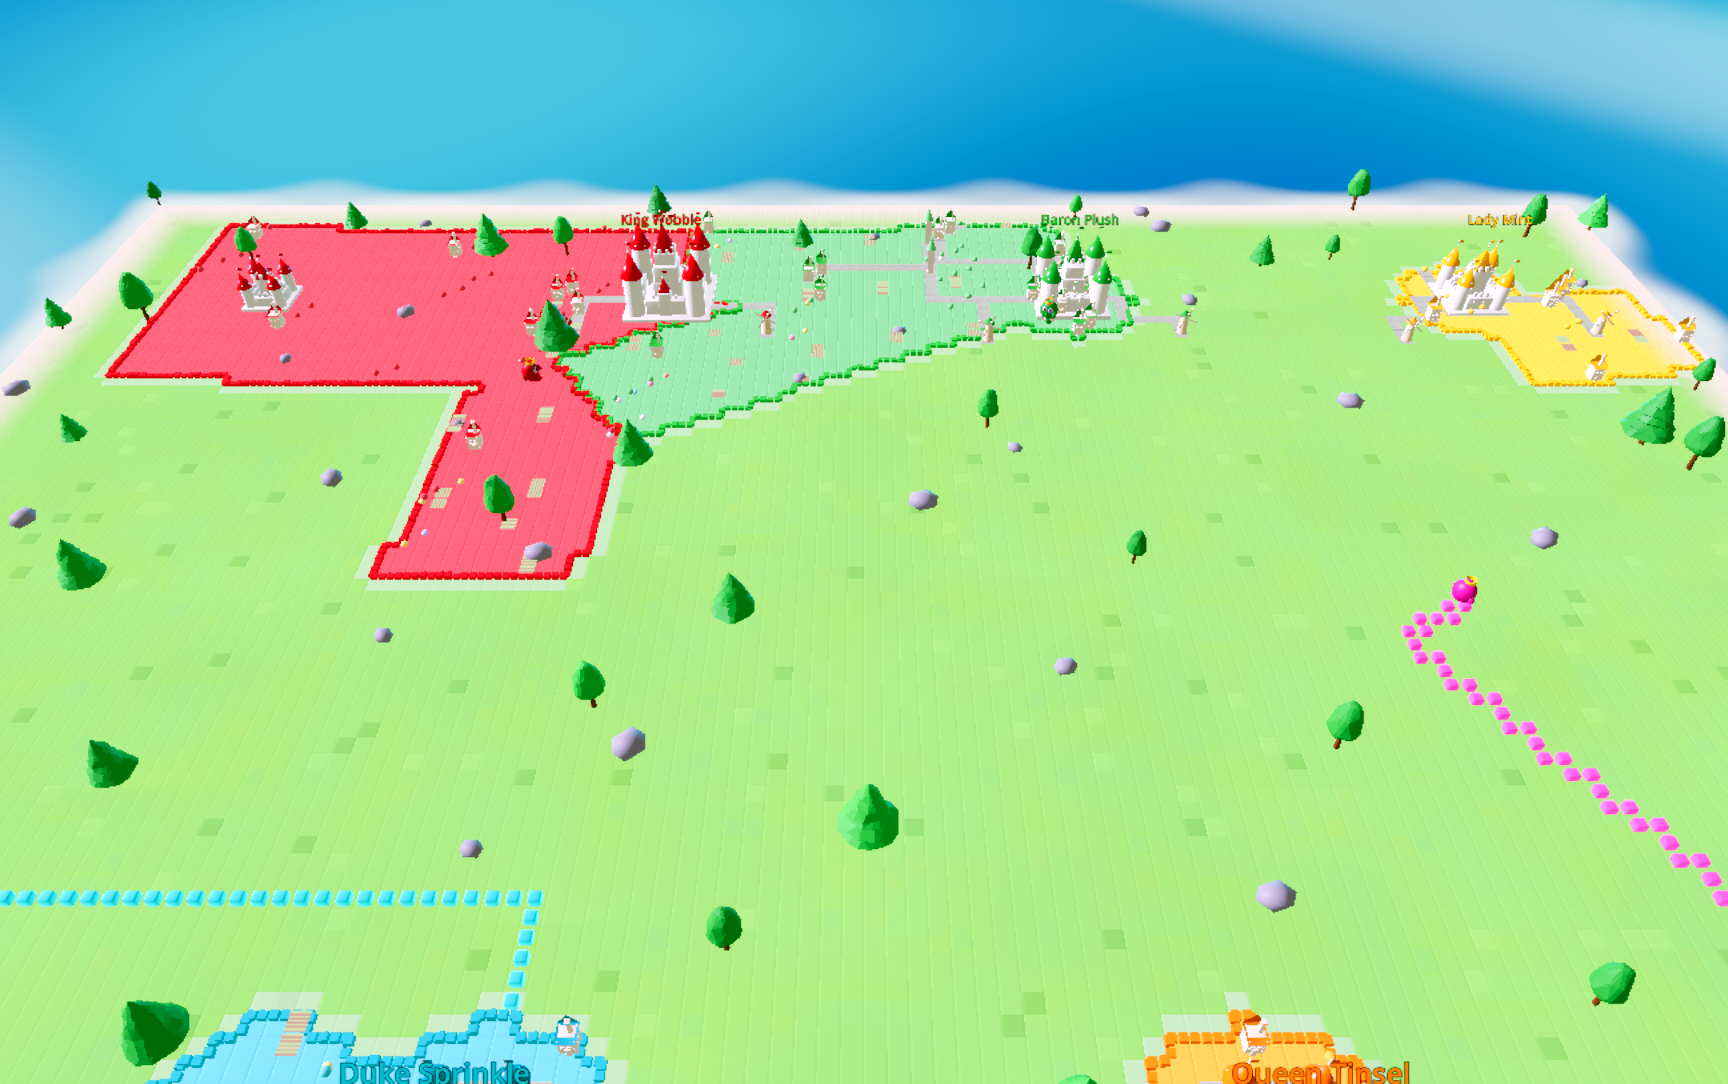
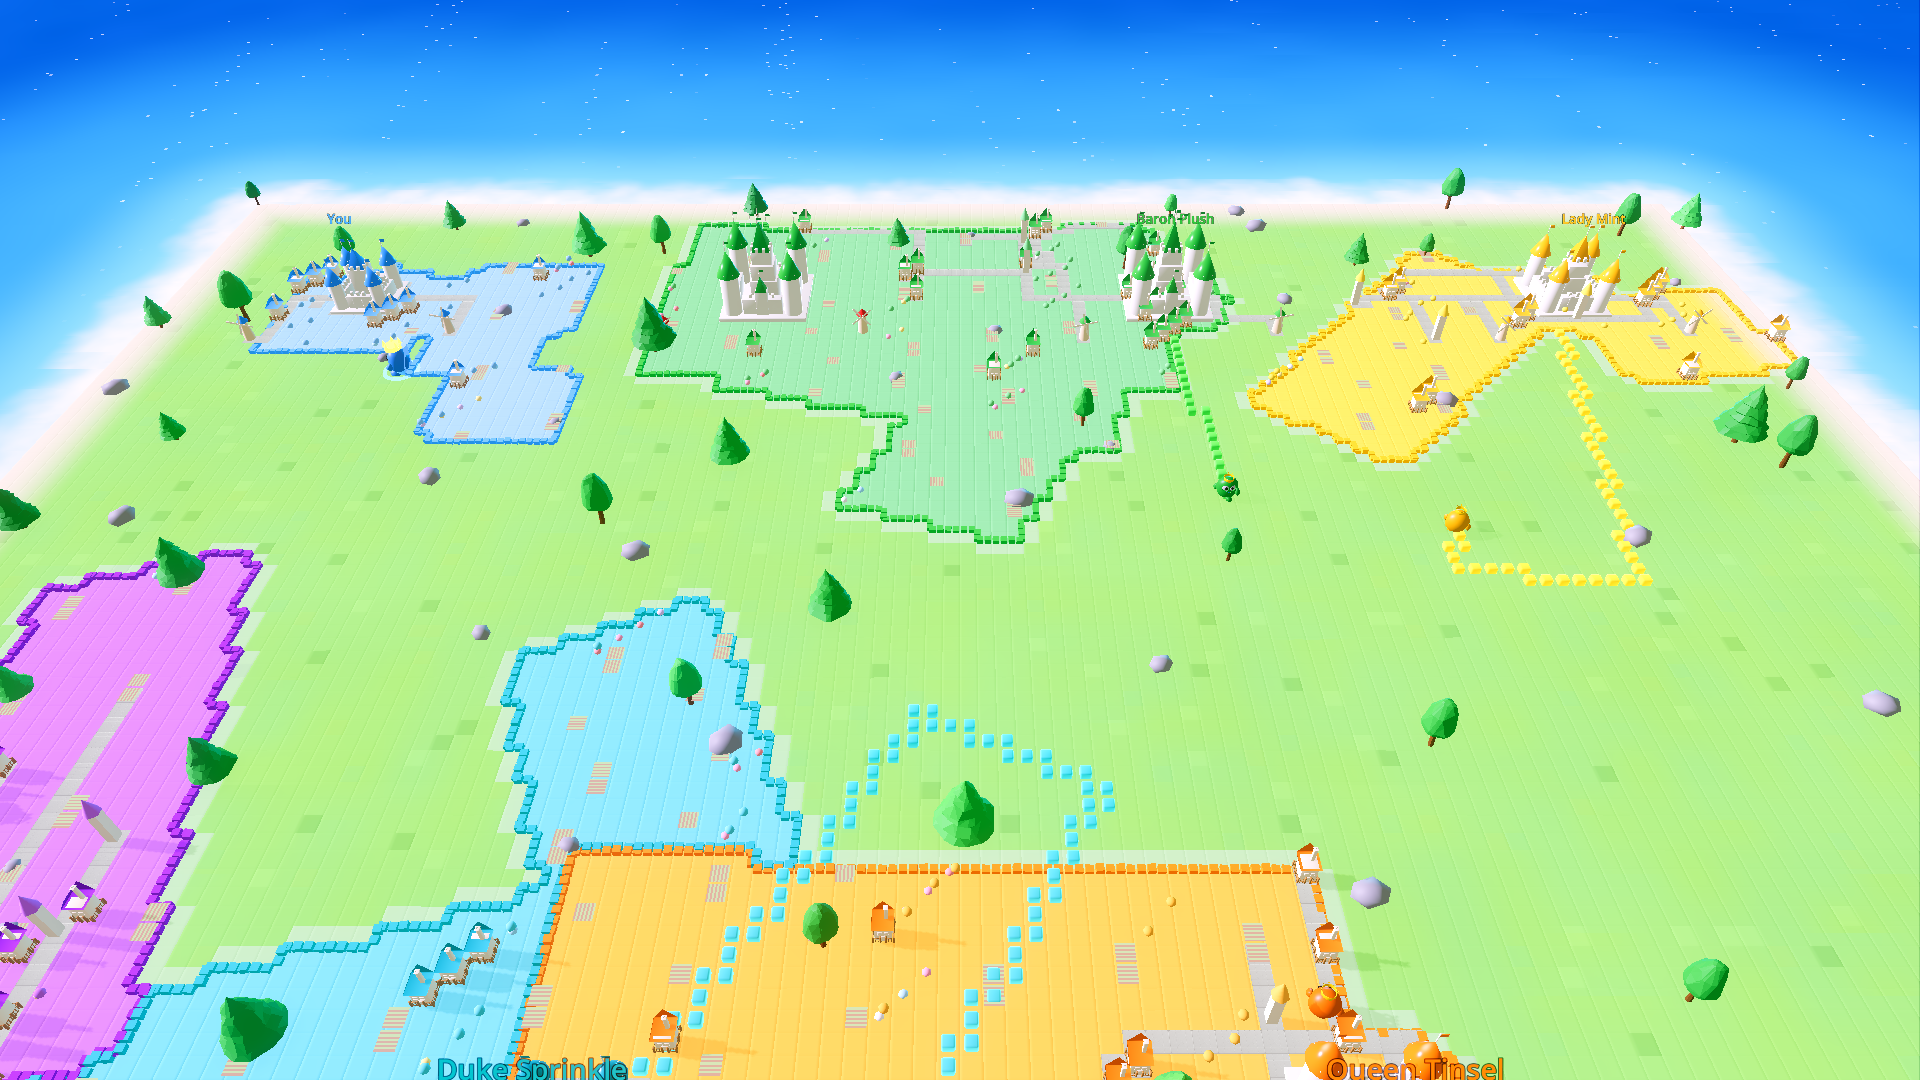
houses: detailed model with fence, fix Z-fighting
Rebuilt house GLB with three submeshes: cream body (walls + embedded window
frames/sills/lintel + chimney shaft+crown+pots), kingdom-coloured steep gable
roof with wide eave overhang, and warm wood-brown picket fence with gate
opening on the front face.

Z-fighting eliminated: all surface decorations (window frames, door lintel)
embed 5 mm inside the wall face so no geometry is coplanar. Chimney starts
8 cm below the body top so its base is never flush.

populace.gd loads the new "fence" submesh and renders it as a third
MultiMesh batch at a fixed warm-brown colour (Color 6E3F14). Updated
instance Y offsets to match new mesh dimensions (body +0.330, roof +0.890,
fence +0.125).

diff --git a/tools/gen_house.py b/tools/gen_house.py
@@ -1,20 +1,24 @@
 # gen_house.py — detailed toy house -> assets/models/house.glb
 #
-# Target aesthetic (target_art.png):
-#   Chimneys, raised window frames + sills, door frame with lintel,
-#   corner quoins, wide roof overhang — recognisably a house even at tiny scale.
+# Matches the reference image: cream walls, steep kingdom-coloured gable, chimney
+# with crown + pots, embedded window frames (no Z-fight), door with lintel, and
+# a surrounding picket fence with a gate opening on the front face.
 #
-# Two named objects so populace.gd can tint each independently:
-#   "body"  — walls + chimney shaft + quoins + door/window details (cream stone)
-#   "roof"  — main gable + chimney cap (kingdom colour)
+# THREE named submeshes (populace.gd loads each independently):
+#   "body"  — walls + window frames + door + chimney shaft/crown/pots  (cream)
+#   "roof"  — gable prism with wide eave overhang                      (kingdom colour)
+#   "fence" — picket fence with gate opening                           (warm wood brown)
 #
-# Blender convention:
-#   Z = up (→ Godot Y),  X = right (→ Godot X),  Y = depth (→ Godot -Z)
-#   Front face of house = -Y in Blender (faces viewer in Godot +Z isometric view)
+# Blender → Godot axes: Z=up → Y, X=X, Y=depth → -Z.
+# Front face (-Y in Blender) faces the isometric camera in Godot (+Z).
 #
-# Dimensions chosen so populace.gd instance offsets below work:
-#   body center at Godot  PROP_Y + 0.32   (body spans PROP_Y to PROP_Y+0.64)
-#   roof center at Godot  PROP_Y + 0.85   (roof sits on top, peak at +1.06)
+# Instance Y offsets for populace.gd (relative to PROP_Y):
+#   body  : PROP_Y + BH        = PROP_Y + 0.330   (body spans PROP_Y … PROP_Y+0.660)
+#   roof  : PROP_Y + BH*2+RHH  = PROP_Y + 0.890   (roof peak at PROP_Y+1.120)
+#   fence : PROP_Y + FHALF     = PROP_Y + 0.125   (fence bottom on ground)
+#
+# Z-fighting prevention rule: every surface decoration's back face is placed
+# 5 mm INSIDE the wall it sits on (embedded), so there is never a coplanar pair.
 #
 # Run:  blender --background --python tools/gen_house.py
 import bpy, sys, os
@@ -24,106 +28,152 @@ import tbk_lib as T
 
 T.reset()
 
-CELL = 0.6
-
 # ── dimensions ────────────────────────────────────────────────────────────────
-BW  = CELL * 0.76 / 2   # body half-footprint  = 0.228
-BH  = 0.32               # body half-height     → full height 0.64
-RW  = CELL * 0.96 / 2   # roof half-footprint  = 0.288 (overhang = BW+0.060)
-RD  = CELL * 1.00 / 2   # roof half-depth      = 0.300
-RH  = 0.42               # roof full height
+BW = 0.240          # body half-footprint (48 × 48 cm plan)
+BH = 0.330          # body half-height    (66 cm walls)
+RH = 0.460          # roof full height    (steep 46 cm pitch)
+RW = BW + 0.078     # = 0.318 roof half-width  (7.8 cm eave overhang per side)
+RD = BW + 0.082     # = 0.322 roof half-depth
 
-# Materials (Godot overrides via material_override, these are placeholder colours)
-body_mat = T.mat("body", (0.92, 0.88, 0.80), rough=0.72)
-roof_mat = T.mat("roof", (0.25, 0.55, 0.25), rough=0.55)
+POST_H = 0.250      # fence post full height
+FHALF  = POST_H / 2 # = 0.125  (fence mesh centred at Z=0)
+FHW    = 0.286      # fence half-footprint (just within cell half of 0.300)
+GATE_HW = 0.076     # half-width of gate opening on front fence
 
-body_parts = []
+# chimney placement (Blender XY offset from house centre)
+CHX, CHY  = 0.092, 0.070
+CH_HW     = 0.050
+CHIM_BOT  = BH - 0.080          # shaft start: 8 cm inside body top → no coplanar face
+CHIM_TOP  = BH + 0.520          # shaft tip:   above roof peak at BH + RH/2 = 0.560
+CHIM_HH   = (CHIM_TOP - CHIM_BOT) * 0.5
+CHIM_CZ   = (CHIM_TOP + CHIM_BOT) * 0.5
+
+# placeholder materials (Godot's material_override replaces these at runtime)
+body_mat  = T.mat("body",  (0.93, 0.89, 0.81), rough=0.68)
+roof_mat  = T.mat("roof",  (0.22, 0.52, 0.22), rough=0.50)
+fence_mat = T.mat("fence", (0.52, 0.33, 0.14), rough=0.84)
+
+body_parts  = []
 roof_parts  = []
+fence_parts = []
 
-# ── BODY ──────────────────────────────────────────────────────────────────────
+# ─────────────────────────── BODY ─────────────────────────────────────────────
 
 # Main walls
 body_parts.append(T.box(BW, BW, BH, 0, 0, 0))
 
-# Horizontal string course (thin belt midway up the wall = a classic toy-house read)
-body_parts.append(T.box(BW + 0.007, BW + 0.007, 0.013, 0, 0, -BH * 0.10))
-
-# Corner quoins — raised square strips at the 4 vertical edges give depth + scale
-for qx, qy in [(-1, -1), (1, -1), (-1, 1), (1, 1)]:
-    body_parts.append(T.box(0.024, 0.024, BH + 0.004, qx * (BW - 0.012), qy * (BW - 0.012), 0.002))
-
-# ── Front face windows (front = -Y in Blender) ──
-WFW, WFH, WFD = 0.058, 0.050, 0.013   # frame half-width, half-height, protrusion depth
-WFSY = -(BW + WFD)                     # Y position (just beyond front face)
+# Window frames — front face is at Blender Y = -BW.
+# Centre each frame so its back face sits 5 mm INSIDE the wall (no coplanar Z-fight).
+WFW, WFH, WFD = 0.056, 0.048, 0.016
+_wy = -(BW + WFD - 0.005)          # back face lands at -(BW - 0.005) = inside wall
 for wx in [-0.090, 0.090]:
-    # Window frame (raised rectangle)
-    body_parts.append(T.box(WFW, WFD, WFH,  wx, WFSY, 0.050))
-    # Window sill (thin ledge below frame)
-    body_parts.append(T.box(WFW + 0.014, WFD + 0.004, 0.009,  wx, WFSY - 0.002, 0.050 - WFH - 0.011))
-    # Window header (thin bar above frame)
-    body_parts.append(T.box(WFW + 0.008, WFD + 0.002, 0.008,  wx, WFSY - 0.001, 0.050 + WFH + 0.009))
+    body_parts.append(T.box(WFW, WFD, WFH,  wx, _wy, 0.055))
+    # Sill: thin ledge below frame, same depth
+    body_parts.append(T.box(WFW + 0.014, WFD + 0.004, 0.008,
+                             wx, _wy - 0.002, 0.055 - WFH - 0.010))
+    # Header: thin bar above frame
+    body_parts.append(T.box(WFW + 0.010, WFD + 0.002, 0.007,
+                             wx, _wy - 0.001, 0.055 + WFH + 0.008))
 
-# ── Side windows (one per side, centred, slightly higher) ──
-SWY = 0.035   # Z centre
-for sx, sy in [(BW + WFD, 0), (-(BW + WFD), 0)]:
-    body_parts.append(T.box(WFD, WFW, WFH,  sx, 0, SWY))
-    body_parts.append(T.box(WFD + 0.004, WFW + 0.012, 0.009,  sx * 0.998, 0, SWY - WFH - 0.011))
+# Door — front face, bottom flush with house base
+DW, DH, DD = 0.068, 0.112, 0.016
+_dy = -(BW + DD - 0.005)           # same 5 mm embedding rule
+body_parts.append(T.box(DW, DD, DH, 0, _dy, -BH + DH))
+# Lintel above door
+body_parts.append(T.box(DW + 0.014, DD + 0.002, 0.010,
+                         0, _dy, -BH + DH * 2 + 0.010))
 
-# ── Door (front face, centred, near the bottom) ──
-DW, DH, DD = 0.070, 0.108, 0.015
-DY = -(BW + DD)
-DZ = -BH + DH                           # door bottom sits at the house base
-body_parts.append(T.box(DW, DD, DH, 0, DY, DZ))
-# Lintel bar above door opening
-body_parts.append(T.box(DW + 0.014, DD + 0.002, 0.010, 0, DY, DZ + DH + 0.010))
-# Tiny door step at the base
-body_parts.append(T.box(DW + 0.018, 0.024, 0.016, 0, -(BW + 0.012), -BH - 0.010))
-
-# ── Chimney (stone-coloured, rises from mid-body through the roof peak) ──
-# Placed at Blender (+X, +Y) offset so it reads clearly against the roof slope.
-# Z range: from BH*0.05 (starts inside the body near the top) up to BH + 0.52
-#          In Godot Y: body instance at +0.32, so chimney tip at 0.32 + 0.32 + 0.52 = 1.16
-#          Roof peak in Godot Y: 0.85 + 0.21 = 1.06  → chimney pokes 0.10 above the peak.
-CHX, CHY = 0.092, 0.074        # Blender XY offset of chimney centre from house centre
-CHIM_BOT_Z = BH * 0.05        # = 0.016
-CHIM_TOP_Z = BH + 0.52        # = 0.84
-CHIM_CZ = (CHIM_BOT_Z + CHIM_TOP_Z) * 0.5   # = 0.428
-CHIM_HH = (CHIM_TOP_Z - CHIM_BOT_Z) * 0.5   # = 0.412
-CH_HW = 0.054
+# Chimney shaft — starts inside the body so no face is shared with the body top
 body_parts.append(T.box(CH_HW, CH_HW, CHIM_HH, CHX, CHY, CHIM_CZ))
+# Crown: wider flange at the tip
+body_parts.append(T.box(CH_HW + 0.018, CH_HW + 0.018, 0.012,
+                         CHX, CHY, CHIM_TOP + 0.012))
+# Two chimney pots
+body_parts.append(T.cyl(0.013, 0.050, CHX - 0.014, CHY - 0.010, CHIM_TOP + 0.043, 6))
+body_parts.append(T.cyl(0.013, 0.050, CHX + 0.014, CHY + 0.010, CHIM_TOP + 0.043, 6))
 
-# Chimney crown (wider flange at the very top, Godot will see as a stone cap)
-body_parts.append(T.box(CH_HW + 0.016, CH_HW + 0.016, 0.012,
-                         CHX, CHY, CHIM_TOP_Z + 0.012))
+# ─────────────────────────── ROOF ─────────────────────────────────────────────
 
-# Two chimney pots (small cylinders rising from the crown)
-body_parts.append(T.cyl(0.015, 0.058, CHX - 0.016, CHY - 0.012, CHIM_TOP_Z + 0.045, 6))
-body_parts.append(T.cyl(0.015, 0.058, CHX + 0.016, CHY + 0.012, CHIM_TOP_Z + 0.045, 6))
-
-# ── ROOF ──────────────────────────────────────────────────────────────────────
-
-# Main gable prism (overhangs the body on all sides for a proper eave)
-# prism: sx=X-width, sy=Y-depth (ridge runs along Y), sz=full height
+# Steep gable prism — ridge runs along Blender Y → Godot -Z
+# Overhang: RW/RD each exceed BW/BD by ~8 cm on every side
 roof_parts.append(T.prism(RW * 2, RD * 2, RH, 0, 0, 0))
 
-# Chimney cap — small decorative flange at chimney tip, coloured with the roof
-# In ROOF-local coordinates:
-#   chimney tip Godot Y = PROP_Y + 1.16  (calculated above)
-#   roof instance Godot Y = PROP_Y + 0.85
-#   → chimney tip roof-local Blender Z = 1.16 - 0.85 = 0.31
-CAP_Z = 0.31
-roof_parts.append(T.box(CH_HW + 0.024, CH_HW + 0.024, 0.010,
-                         CHX, CHY, CAP_Z))
+# ─────────────────────────── FENCE ────────────────────────────────────────────
+# Fence mesh centred at Blender Z = 0 → spans ±FHALF.
+# Godot places it at PROP_Y + FHALF so the bottom sits exactly on the ground.
 
-# ── assemble ──────────────────────────────────────────────────────────────────
-for o in body_parts: o.data.materials.append(body_mat)
+PHW    = 0.025   # post half-width
+RAIL_T = 0.009   # rail half-thickness
+PIK_HW = 0.011   # picket half-width
+PIK_HH = 0.100   # picket half-height  (slightly shorter than post for visual clarity)
+PIK_CZ = -0.012  # picket centre Z     (bottom near fence base, top below post top)
+RAIL_ZL = -FHALF + 0.055   # lower rail Z
+RAIL_ZH =  FHALF - 0.054   # upper rail Z
+
+
+def _post(x, y, hh=FHALF):
+    fence_parts.append(T.box(PHW, PHW, hh, x, y, 0))
+
+
+def _sect_x(y, x0, x1, n=3):
+    """Fence panel running in X at constant Y: two rails + n pickets."""
+    cx = (x0 + x1) * 0.5
+    hl = (x1 - x0) * 0.5
+    fence_parts.append(T.box(hl, RAIL_T, RAIL_T, cx, y, RAIL_ZL))
+    fence_parts.append(T.box(hl, RAIL_T, RAIL_T, cx, y, RAIL_ZH))
+    for k in range(n):
+        fx = x0 + (k + 0.5) / n * (x1 - x0)
+        fence_parts.append(T.box(PIK_HW, RAIL_T + 0.003, PIK_HH, fx, y, PIK_CZ))
+
+
+def _sect_y(x, y0, y1, n=3):
+    """Fence panel running in Y at constant X: two rails + n pickets."""
+    cy = (y0 + y1) * 0.5
+    hl = (y1 - y0) * 0.5
+    fence_parts.append(T.box(RAIL_T, hl, RAIL_T, x, cy, RAIL_ZL))
+    fence_parts.append(T.box(RAIL_T, hl, RAIL_T, x, cy, RAIL_ZH))
+    for k in range(n):
+        fy = y0 + (k + 0.5) / n * (y1 - y0)
+        fence_parts.append(T.box(RAIL_T + 0.003, PIK_HW, PIK_HH, x, fy, PIK_CZ))
+
+
+# Corner posts
+for cx, cy in [(-FHW, -FHW), (FHW, -FHW), (-FHW, FHW), (FHW, FHW)]:
+    _post(cx, cy)
+
+# Gate posts on front face (Y = -FHW) — slightly taller for visual emphasis
+_post(-GATE_HW, -FHW, FHALF * 1.14)
+_post( GATE_HW, -FHW, FHALF * 1.14)
+
+# Mid posts on sides and back
+_post(-FHW, 0)   # left mid
+_post( FHW, 0)   # right mid
+_post(0,  FHW)   # back mid
+
+# Back fence — two halves around the mid post
+_sect_x(FHW, -FHW + PHW, -PHW, 3)
+_sect_x(FHW,  PHW,  FHW - PHW, 3)
+
+# Left fence — two halves around the mid post
+_sect_y(-FHW, -FHW + PHW, -PHW, 3)
+_sect_y(-FHW,  PHW,  FHW - PHW, 3)
+
+# Right fence — two halves around the mid post
+_sect_y(FHW, -FHW + PHW, -PHW, 3)
+_sect_y(FHW,  PHW,  FHW - PHW, 3)
+
+# Front fence — two halves with gate opening in the centre
+_sect_x(-FHW, -FHW + PHW,     -GATE_HW - PHW, 2)
+_sect_x(-FHW,  GATE_HW + PHW,  FHW - PHW,     2)
+
+# ─────────────────────── ASSEMBLE & EXPORT ────────────────────────────────────
+for o in body_parts:  o.data.materials.append(body_mat)
 for o in roof_parts:  o.data.materials.append(roof_mat)
+for o in fence_parts: o.data.materials.append(fence_mat)
 
-body_obj = T.join(body_parts, "body")
-T.bevel(body_obj, width=0.018, segments=2)
-
-roof_obj = T.join(roof_parts, "roof")
-T.bevel(roof_obj, width=0.018, segments=2)
+body_obj  = T.join(body_parts,  "body");   T.bevel(body_obj,  width=0.016, segments=2)
+roof_obj  = T.join(roof_parts,  "roof");   T.bevel(roof_obj,  width=0.018, segments=2)
+fence_obj = T.join(fence_parts, "fence");  T.bevel(fence_obj, width=0.007, segments=1)
 
 T.export("house")
 print("HOUSE_DONE")